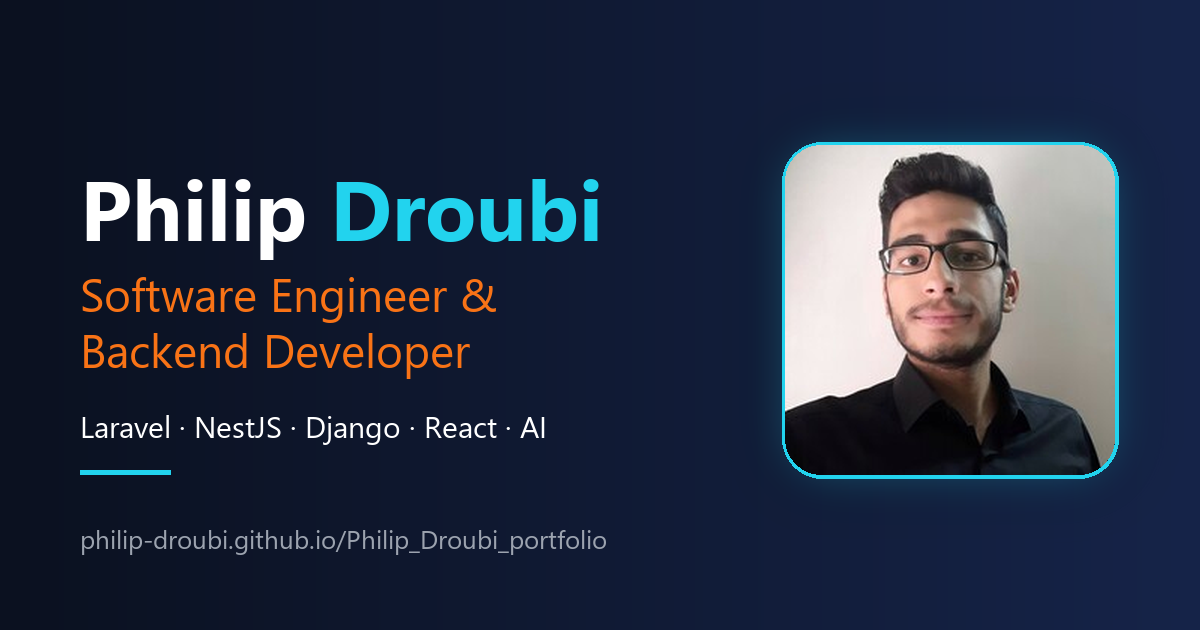
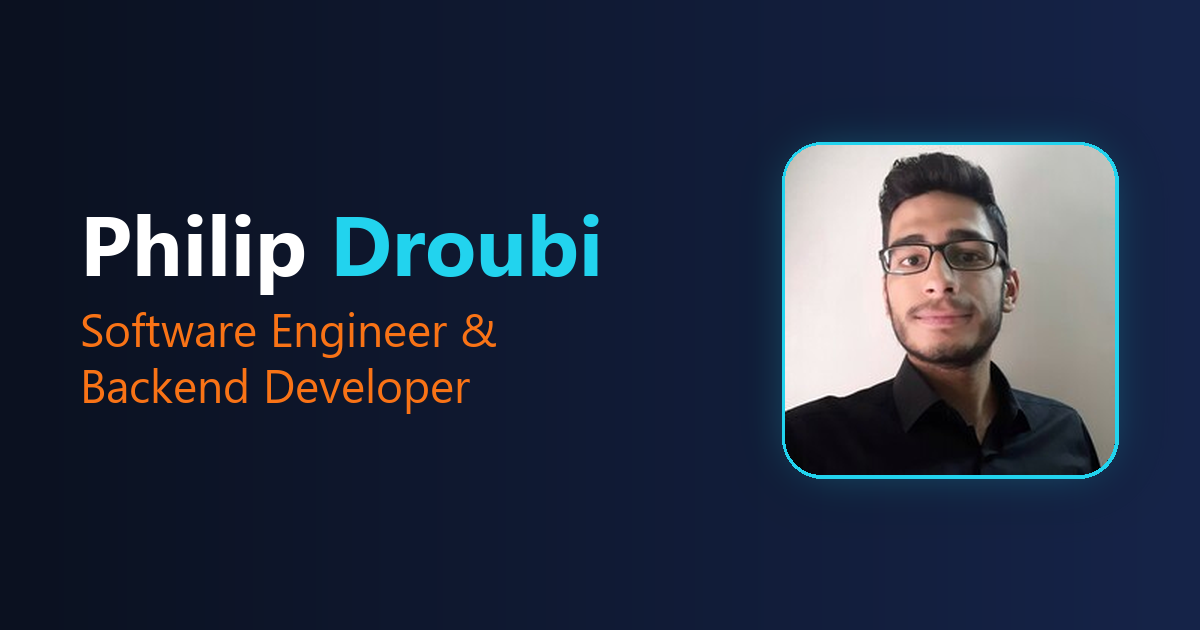
Update OG image

Changed region(s): [[0.0617, 0.2714, 0.5242, 0.6937], [0.0617, 0.8444, 0.5242, 0.8746], [0.0617, 0.7238, 0.1542, 0.754]]

diff --git a/404.html b/404.html
@@ -16,8 +16,7 @@
   <link rel="icon" type="image/png" sizes="32x32" href="/Philip_Droubi_portfolio/assets/logo-fD0Hvyln.png" />
   <link rel="apple-touch-icon" href="/Philip_Droubi_portfolio/favicon-96.png" />
 
-  <script data-goatcounter="https://philip-portfolio.goatcounter.com/count"
-        async src="//gc.zgo.at/count.js"></script>
+  <script data-goatcounter="https://philip-portfolio.goatcounter.com/count" async src="//gc.zgo.at/count.js"></script>
   <script type="module" crossorigin src="/Philip_Droubi_portfolio/assets/index-CMx-6NF4.js"></script>
   <link rel="modulepreload" crossorigin href="/Philip_Droubi_portfolio/assets/rolldown-runtime-Cyuzqnbw.js">
   <link rel="modulepreload" crossorigin href="/Philip_Droubi_portfolio/assets/emotion-Ddw1vuWZ.js">

diff --git a/certificates/index.html b/certificates/index.html
@@ -37,8 +37,7 @@
   <link rel="icon" type="image/png" sizes="32x32" href="/Philip_Droubi_portfolio/assets/logo-fD0Hvyln.png" />
   <link rel="apple-touch-icon" href="/Philip_Droubi_portfolio/favicon-96.png" />
 
-  <script data-goatcounter="https://philip-portfolio.goatcounter.com/count"
-        async src="//gc.zgo.at/count.js"></script>
+  <script data-goatcounter="https://philip-portfolio.goatcounter.com/count" async src="//gc.zgo.at/count.js"></script>
   <script type="module" crossorigin src="/Philip_Droubi_portfolio/assets/index-CMx-6NF4.js"></script>
   <link rel="modulepreload" crossorigin href="/Philip_Droubi_portfolio/assets/rolldown-runtime-Cyuzqnbw.js">
   <link rel="modulepreload" crossorigin href="/Philip_Droubi_portfolio/assets/emotion-Ddw1vuWZ.js">

diff --git a/index.html b/index.html
@@ -39,8 +39,7 @@
   <link rel="icon" type="image/png" sizes="32x32" href="/Philip_Droubi_portfolio/assets/logo-fD0Hvyln.png" />
   <link rel="apple-touch-icon" href="/Philip_Droubi_portfolio/favicon-96.png" />
 
-  <script data-goatcounter="https://philip-portfolio.goatcounter.com/count"
-        async src="//gc.zgo.at/count.js"></script>
+  <script data-goatcounter="https://philip-portfolio.goatcounter.com/count" async src="//gc.zgo.at/count.js"></script>
   <script type="module" crossorigin src="/Philip_Droubi_portfolio/assets/index-CMx-6NF4.js"></script>
   <link rel="modulepreload" crossorigin href="/Philip_Droubi_portfolio/assets/rolldown-runtime-Cyuzqnbw.js">
   <link rel="modulepreload" crossorigin href="/Philip_Droubi_portfolio/assets/emotion-Ddw1vuWZ.js">

diff --git a/projects/alburaq-group/index.html b/projects/alburaq-group/index.html
@@ -35,8 +35,7 @@
   <link rel="icon" type="image/png" sizes="32x32" href="/Philip_Droubi_portfolio/assets/logo-fD0Hvyln.png" />
   <link rel="apple-touch-icon" href="/Philip_Droubi_portfolio/favicon-96.png" />
 
-  <script data-goatcounter="https://philip-portfolio.goatcounter.com/count"
-        async src="//gc.zgo.at/count.js"></script>
+  <script data-goatcounter="https://philip-portfolio.goatcounter.com/count" async src="//gc.zgo.at/count.js"></script>
   <script type="module" crossorigin src="/Philip_Droubi_portfolio/assets/index-CMx-6NF4.js"></script>
   <link rel="modulepreload" crossorigin href="/Philip_Droubi_portfolio/assets/rolldown-runtime-Cyuzqnbw.js">
   <link rel="modulepreload" crossorigin href="/Philip_Droubi_portfolio/assets/emotion-Ddw1vuWZ.js">

diff --git a/projects/ant-war/index.html b/projects/ant-war/index.html
@@ -35,8 +35,7 @@
   <link rel="icon" type="image/png" sizes="32x32" href="/Philip_Droubi_portfolio/assets/logo-fD0Hvyln.png" />
   <link rel="apple-touch-icon" href="/Philip_Droubi_portfolio/favicon-96.png" />
 
-  <script data-goatcounter="https://philip-portfolio.goatcounter.com/count"
-        async src="//gc.zgo.at/count.js"></script>
+  <script data-goatcounter="https://philip-portfolio.goatcounter.com/count" async src="//gc.zgo.at/count.js"></script>
   <script type="module" crossorigin src="/Philip_Droubi_portfolio/assets/index-CMx-6NF4.js"></script>
   <link rel="modulepreload" crossorigin href="/Philip_Droubi_portfolio/assets/rolldown-runtime-Cyuzqnbw.js">
   <link rel="modulepreload" crossorigin href="/Philip_Droubi_portfolio/assets/emotion-Ddw1vuWZ.js">

diff --git a/projects/blind-care-association/index.html b/projects/blind-care-association/index.html
@@ -35,8 +35,7 @@
   <link rel="icon" type="image/png" sizes="32x32" href="/Philip_Droubi_portfolio/assets/logo-fD0Hvyln.png" />
   <link rel="apple-touch-icon" href="/Philip_Droubi_portfolio/favicon-96.png" />
 
-  <script data-goatcounter="https://philip-portfolio.goatcounter.com/count"
-        async src="//gc.zgo.at/count.js"></script>
+  <script data-goatcounter="https://philip-portfolio.goatcounter.com/count" async src="//gc.zgo.at/count.js"></script>
   <script type="module" crossorigin src="/Philip_Droubi_portfolio/assets/index-CMx-6NF4.js"></script>
   <link rel="modulepreload" crossorigin href="/Philip_Droubi_portfolio/assets/rolldown-runtime-Cyuzqnbw.js">
   <link rel="modulepreload" crossorigin href="/Philip_Droubi_portfolio/assets/emotion-Ddw1vuWZ.js">

diff --git a/projects/frontend-mentor/index.html b/projects/frontend-mentor/index.html
@@ -35,8 +35,7 @@
   <link rel="icon" type="image/png" sizes="32x32" href="/Philip_Droubi_portfolio/assets/logo-fD0Hvyln.png" />
   <link rel="apple-touch-icon" href="/Philip_Droubi_portfolio/favicon-96.png" />
 
-  <script data-goatcounter="https://philip-portfolio.goatcounter.com/count"
-        async src="//gc.zgo.at/count.js"></script>
+  <script data-goatcounter="https://philip-portfolio.goatcounter.com/count" async src="//gc.zgo.at/count.js"></script>
   <script type="module" crossorigin src="/Philip_Droubi_portfolio/assets/index-CMx-6NF4.js"></script>
   <link rel="modulepreload" crossorigin href="/Philip_Droubi_portfolio/assets/rolldown-runtime-Cyuzqnbw.js">
   <link rel="modulepreload" crossorigin href="/Philip_Droubi_portfolio/assets/emotion-Ddw1vuWZ.js">

diff --git a/projects/future-code/index.html b/projects/future-code/index.html
@@ -35,8 +35,7 @@
   <link rel="icon" type="image/png" sizes="32x32" href="/Philip_Droubi_portfolio/assets/logo-fD0Hvyln.png" />
   <link rel="apple-touch-icon" href="/Philip_Droubi_portfolio/favicon-96.png" />
 
-  <script data-goatcounter="https://philip-portfolio.goatcounter.com/count"
-        async src="//gc.zgo.at/count.js"></script>
+  <script data-goatcounter="https://philip-portfolio.goatcounter.com/count" async src="//gc.zgo.at/count.js"></script>
   <script type="module" crossorigin src="/Philip_Droubi_portfolio/assets/index-CMx-6NF4.js"></script>
   <link rel="modulepreload" crossorigin href="/Philip_Droubi_portfolio/assets/rolldown-runtime-Cyuzqnbw.js">
   <link rel="modulepreload" crossorigin href="/Philip_Droubi_portfolio/assets/emotion-Ddw1vuWZ.js">

diff --git a/projects/index.html b/projects/index.html
@@ -37,8 +37,7 @@
   <link rel="icon" type="image/png" sizes="32x32" href="/Philip_Droubi_portfolio/assets/logo-fD0Hvyln.png" />
   <link rel="apple-touch-icon" href="/Philip_Droubi_portfolio/favicon-96.png" />
 
-  <script data-goatcounter="https://philip-portfolio.goatcounter.com/count"
-        async src="//gc.zgo.at/count.js"></script>
+  <script data-goatcounter="https://philip-portfolio.goatcounter.com/count" async src="//gc.zgo.at/count.js"></script>
   <script type="module" crossorigin src="/Philip_Droubi_portfolio/assets/index-CMx-6NF4.js"></script>
   <link rel="modulepreload" crossorigin href="/Philip_Droubi_portfolio/assets/rolldown-runtime-Cyuzqnbw.js">
   <link rel="modulepreload" crossorigin href="/Philip_Droubi_portfolio/assets/emotion-Ddw1vuWZ.js">

diff --git a/projects/kafo-freelancing-platform/index.html b/projects/kafo-freelancing-platform/index.html
@@ -35,8 +35,7 @@
   <link rel="icon" type="image/png" sizes="32x32" href="/Philip_Droubi_portfolio/assets/logo-fD0Hvyln.png" />
   <link rel="apple-touch-icon" href="/Philip_Droubi_portfolio/favicon-96.png" />
 
-  <script data-goatcounter="https://philip-portfolio.goatcounter.com/count"
-        async src="//gc.zgo.at/count.js"></script>
+  <script data-goatcounter="https://philip-portfolio.goatcounter.com/count" async src="//gc.zgo.at/count.js"></script>
   <script type="module" crossorigin src="/Philip_Droubi_portfolio/assets/index-CMx-6NF4.js"></script>
   <link rel="modulepreload" crossorigin href="/Philip_Droubi_portfolio/assets/rolldown-runtime-Cyuzqnbw.js">
   <link rel="modulepreload" crossorigin href="/Philip_Droubi_portfolio/assets/emotion-Ddw1vuWZ.js">

diff --git a/projects/mova-car/index.html b/projects/mova-car/index.html
@@ -35,8 +35,7 @@
   <link rel="icon" type="image/png" sizes="32x32" href="/Philip_Droubi_portfolio/assets/logo-fD0Hvyln.png" />
   <link rel="apple-touch-icon" href="/Philip_Droubi_portfolio/favicon-96.png" />
 
-  <script data-goatcounter="https://philip-portfolio.goatcounter.com/count"
-        async src="//gc.zgo.at/count.js"></script>
+  <script data-goatcounter="https://philip-portfolio.goatcounter.com/count" async src="//gc.zgo.at/count.js"></script>
   <script type="module" crossorigin src="/Philip_Droubi_portfolio/assets/index-CMx-6NF4.js"></script>
   <link rel="modulepreload" crossorigin href="/Philip_Droubi_portfolio/assets/rolldown-runtime-Cyuzqnbw.js">
   <link rel="modulepreload" crossorigin href="/Philip_Droubi_portfolio/assets/emotion-Ddw1vuWZ.js">

diff --git a/projects/portfolio-v1/index.html b/projects/portfolio-v1/index.html
@@ -35,8 +35,7 @@
   <link rel="icon" type="image/png" sizes="32x32" href="/Philip_Droubi_portfolio/assets/logo-fD0Hvyln.png" />
   <link rel="apple-touch-icon" href="/Philip_Droubi_portfolio/favicon-96.png" />
 
-  <script data-goatcounter="https://philip-portfolio.goatcounter.com/count"
-        async src="//gc.zgo.at/count.js"></script>
+  <script data-goatcounter="https://philip-portfolio.goatcounter.com/count" async src="//gc.zgo.at/count.js"></script>
   <script type="module" crossorigin src="/Philip_Droubi_portfolio/assets/index-CMx-6NF4.js"></script>
   <link rel="modulepreload" crossorigin href="/Philip_Droubi_portfolio/assets/rolldown-runtime-Cyuzqnbw.js">
   <link rel="modulepreload" crossorigin href="/Philip_Droubi_portfolio/assets/emotion-Ddw1vuWZ.js">
